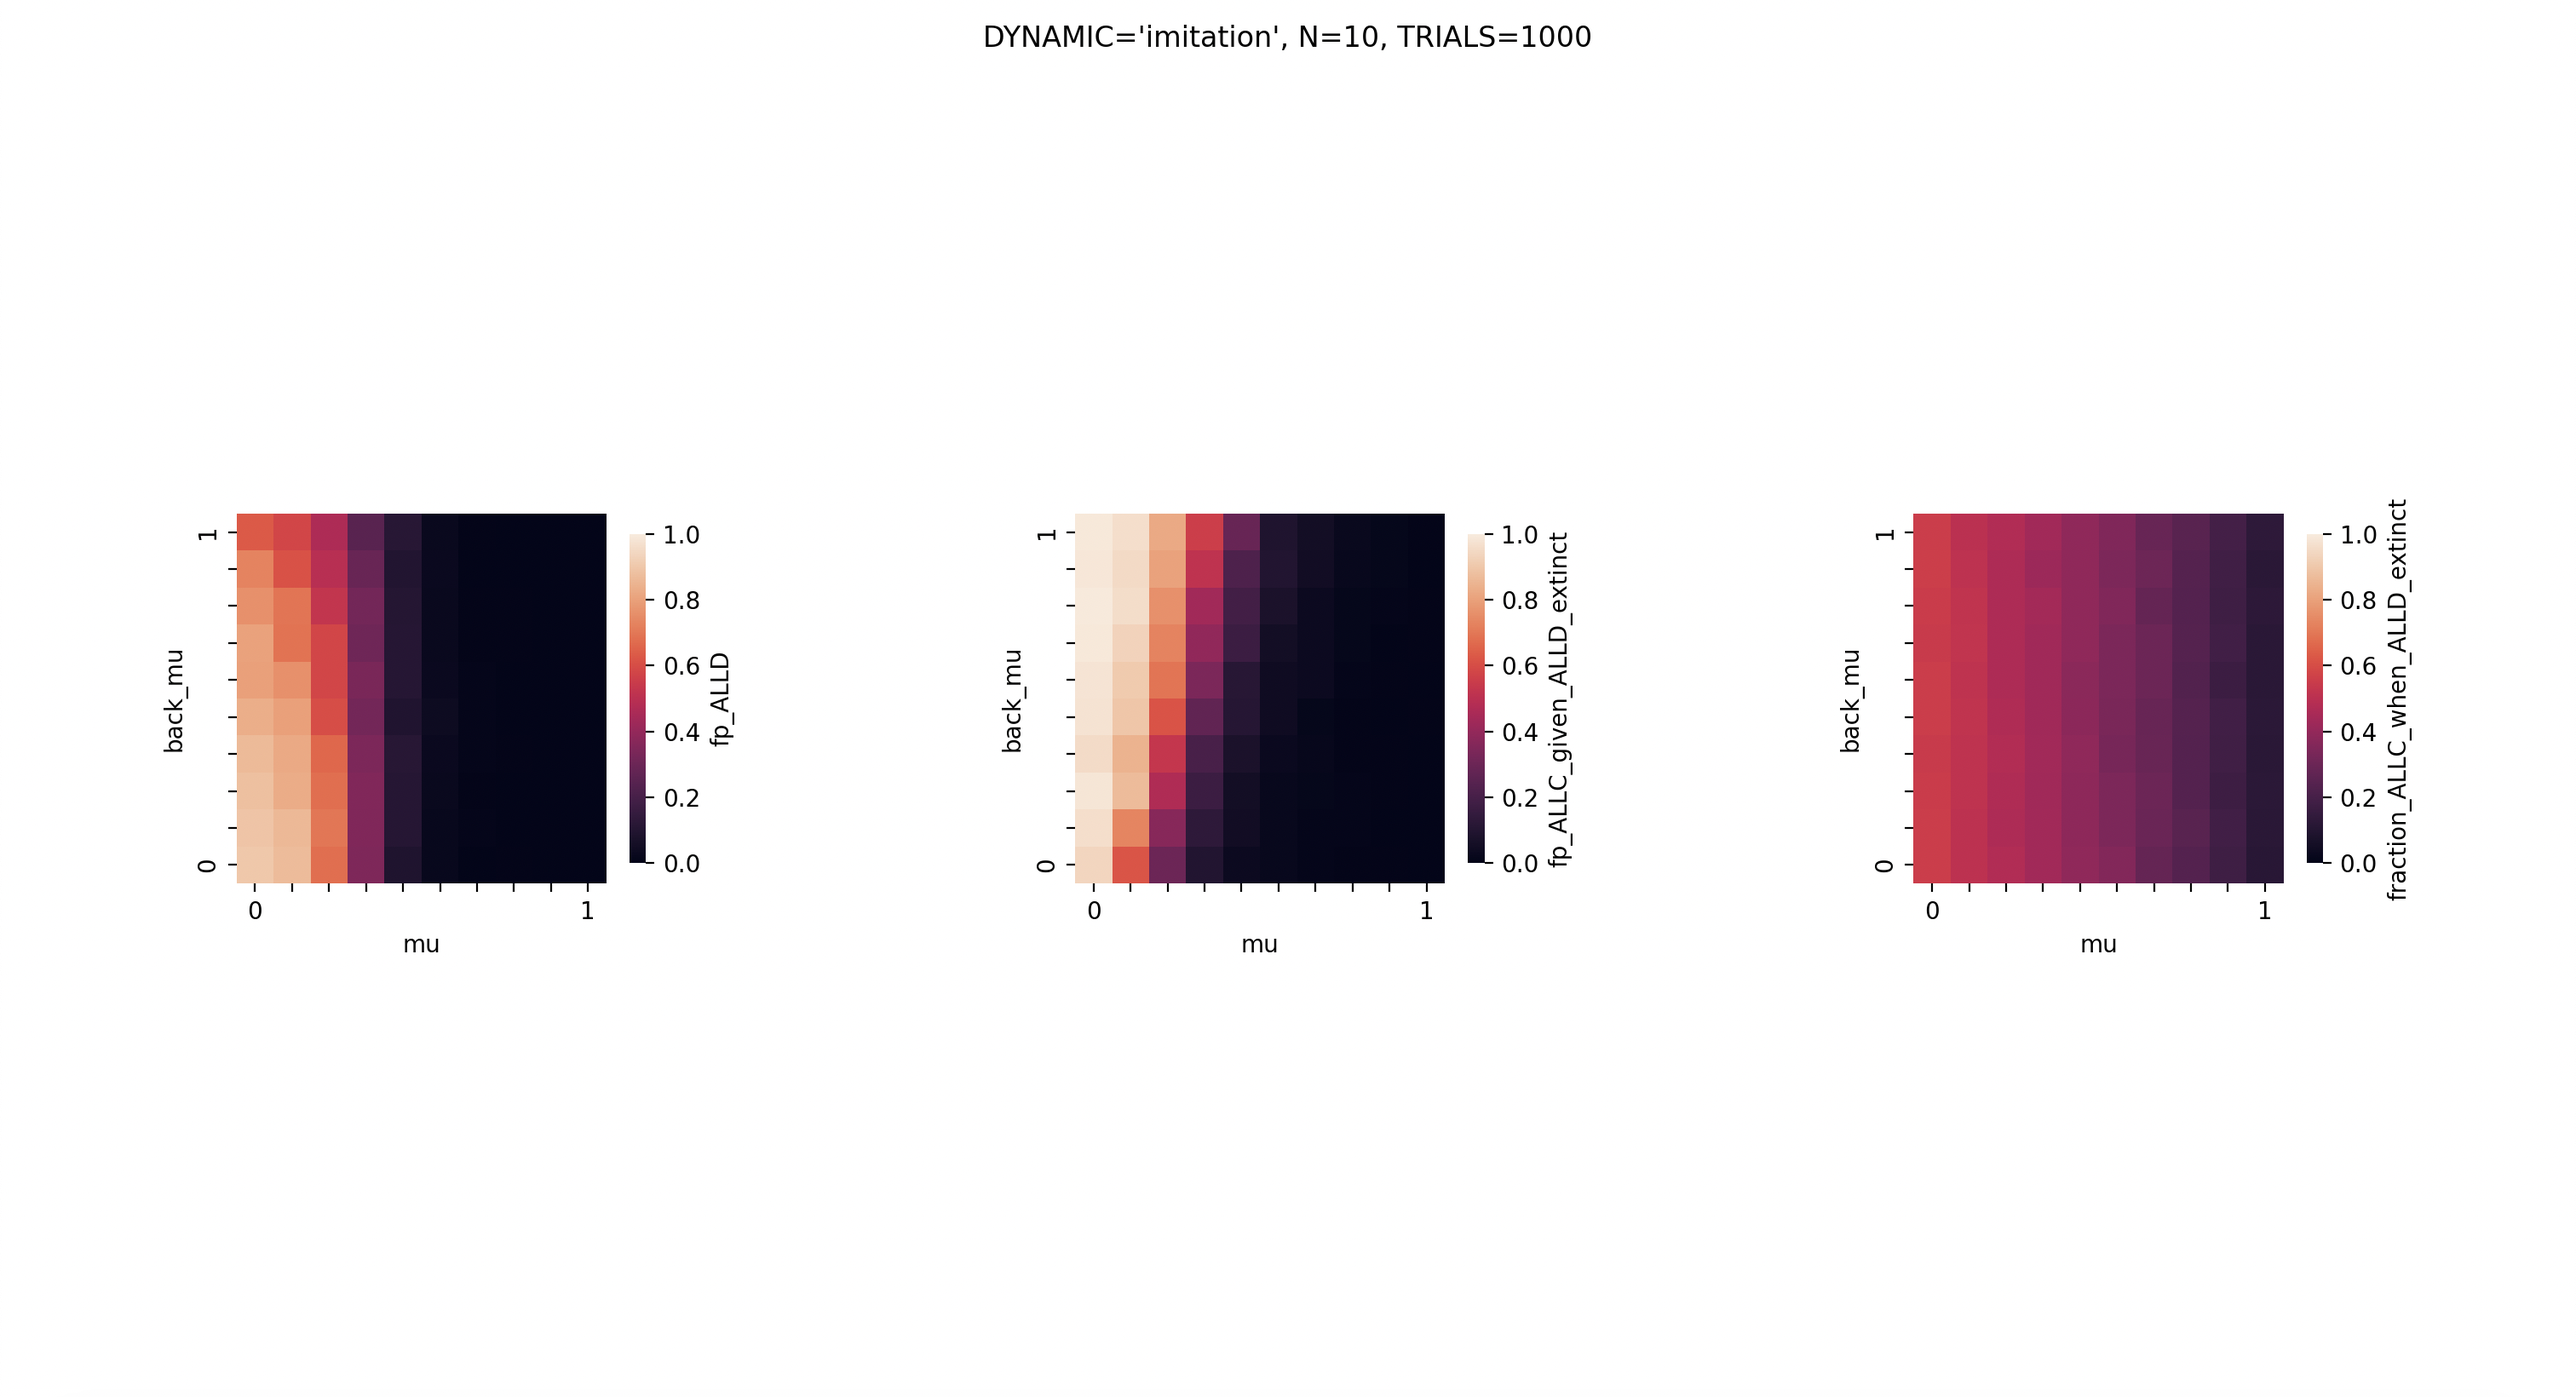
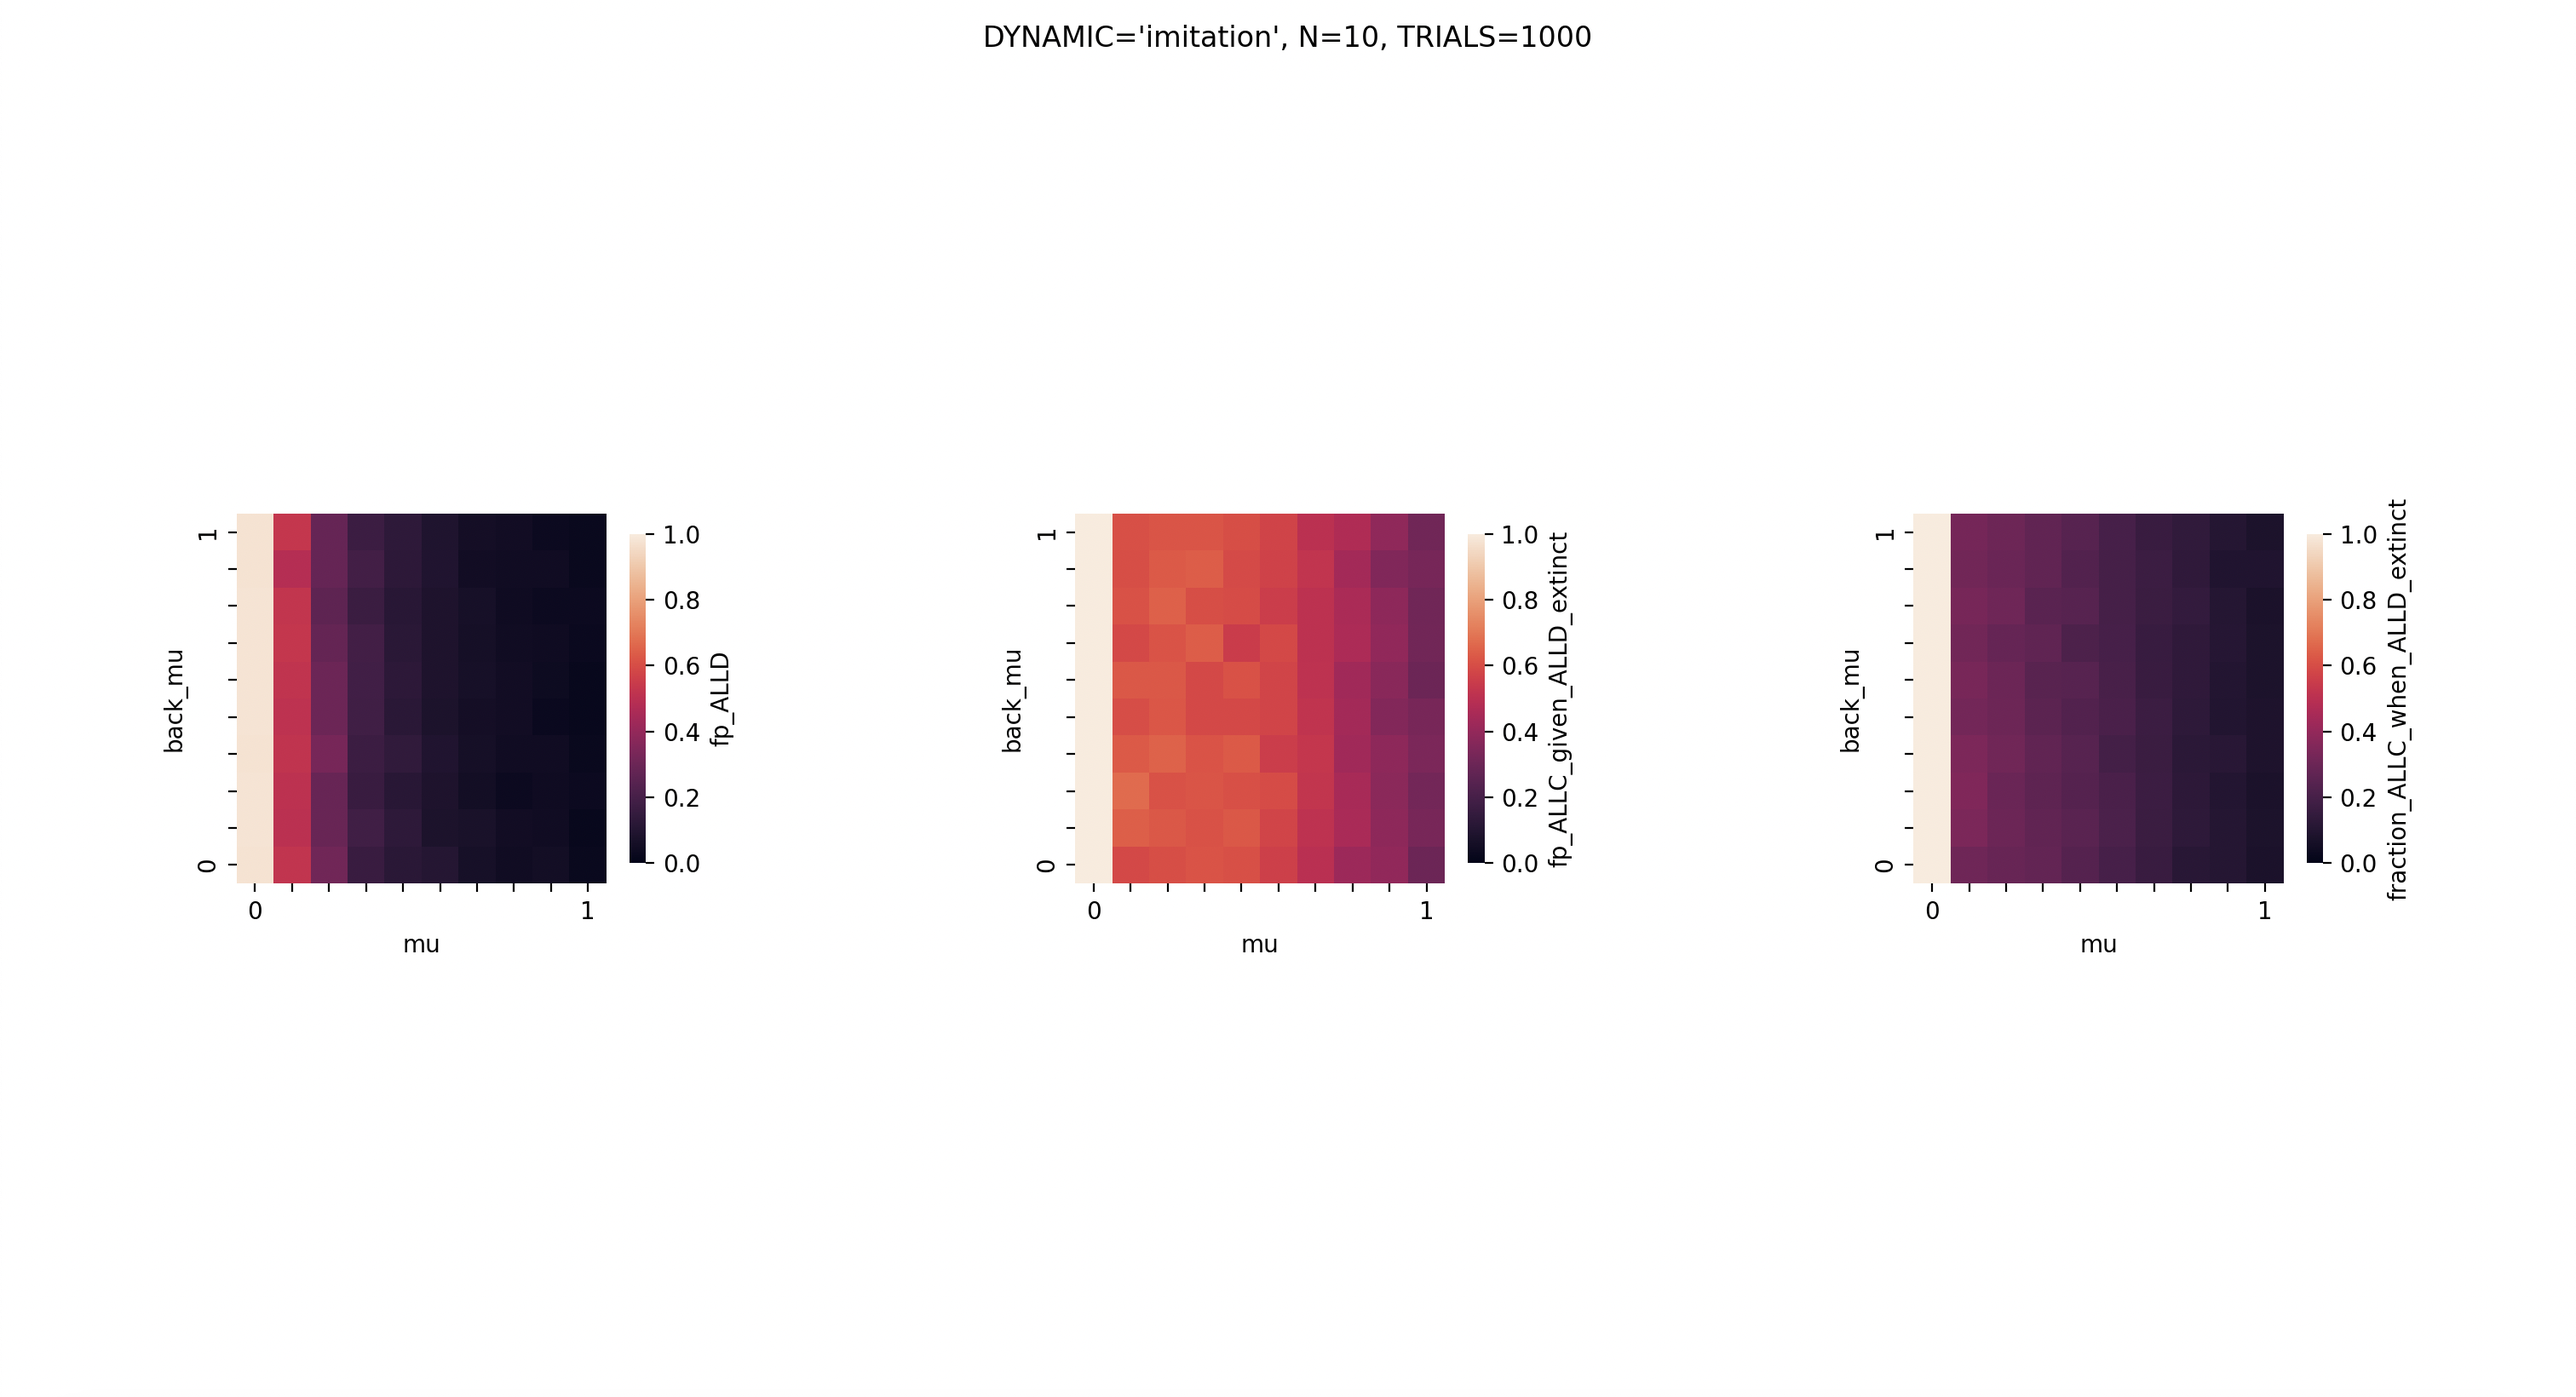
fixed payoff calculation + plots

Changed region(s): [[0.4041, 0.3421, 0.5595, 0.653], [0.7149, 0.3421, 0.8704, 0.653], [0.0933, 0.3421, 0.1865, 0.653]]

diff --git a/martins-dream.py b/martins-dream.py
@@ -42,22 +42,22 @@ def calculate_payoffs(N: int, nALLC: int, nTFT: int, M: Payoffs):
     nALLD/(N-1) * M[(Strategy.AlwaysCooperate, Strategy.AlwaysDefect)]
     + nTFT/(N-1) * M[(Strategy.AlwaysCooperate, Strategy.TitForTat)]
     + (nALLC-1)/(N-1) * M[(Strategy.AlwaysCooperate, Strategy.AlwaysCooperate)]
-  )
+  ) if nALLC > 0 else -np.inf 
   payoff_TFT = (
     nALLD/(N-1) * M[(Strategy.TitForTat, Strategy.AlwaysDefect)]
     + (nTFT-1)/(N-1) * M[(Strategy.TitForTat, Strategy.TitForTat)]
     + nALLC/(N-1) * M[(Strategy.TitForTat, Strategy.AlwaysCooperate)]
-  )
+  ) if nTFT > 0 else -np.inf
   payoff_ALLD = (
     (nALLD-1)/(N-1) * M[(Strategy.AlwaysDefect, Strategy.AlwaysDefect)]
     + nTFT/(N-1) * M[(Strategy.AlwaysDefect, Strategy.TitForTat)]
     + nALLC/(N-1) * M[(Strategy.AlwaysDefect, Strategy.AlwaysCooperate)]
-  )
+  ) if nALLD > 0 else -np.inf
 
   return (payoff_ALLC, payoff_TFT, payoff_ALLD)
 
 def pick_individual_with_payoffs(N: int, nALLC: int, nTFT: int, M: Payoffs):
-  calculate_payoffs(N, nALLC, nTFT, M)
+  # calculate_payoffs(N, nALLC, nTFT, M)
   unnormalized_fitnesses = np.array(list(map(np.exp, calculate_payoffs(N, nALLC, nTFT, M))))
   total_fitness = sum(unnormalized_fitnesses)
   return random.choices(population=STRATEGIES, weights=unnormalized_fitnesses / total_fitness)[0]
@@ -112,6 +112,7 @@ def imitation(N: int, nALLC: int, nTFT: int, M: Payoffs, mu: float, back_mu: flo
 
   strategy_picked_for_update = pick_individual_uniformly(N, nALLC, nTFT, nALLD)
   strategy_role_model = pick_individual_with_payoffs(N, nALLC, nTFT, M)
+  # print(nALLC, nTFT, nALLD, strategy_picked_for_update, strategy_role_model)
 
   # Conditional mutation.
   new_strategy = possibly_mutate(strategy_role_model, N, nTFT, nALLD, mu, back_mu)
@@ -230,42 +231,42 @@ def main():
   INTERVALS = 10
   TRIALS = 1000
   NUM_WORKERS = 8
-  DYNAMIC = 'death-birth'
+  DYNAMIC = 'pairwise-comparison'
   data = []
   TICKS = np.linspace(0, 1, INTERVALS, endpoint=True) 
   TICK_LABELS = [('0' if tick == 0 else '1' if tick == 1 else '') for tick in TICKS]
   for N in (10,):
     mus = TICKS
-    back_mus = TICKS
-    # mutations = [(mu, 0) for mu in mus]
-    mutations = list(itertools.product(mus, back_mus))
+    # back_mus = TICKS
+    mutations = [(mu, 0) for mu in mus]
+    # mutations = list(itertools.product(mus, back_mus))
     print(mutations)
     with Pool(NUM_WORKERS) as p:
       for datum in p.starmap(functools.partial(simulate, N, TRIALS, DYNAMICS[DYNAMIC]), mutations):
         data.append(datum)
 
   df = pd.DataFrame(data, columns=['N', 'mu', 'back_mu', 'fp_ALLD', 'fp_ALLC_given_ALLD_extinct', 'fraction_ALLC_when_ALLD_extinct'])
-
+  print(df)
   fig, ax = plt.subplots(1,3)
   for i, value in enumerate(('fp_ALLD', 'fp_ALLC_given_ALLD_extinct', 'fraction_ALLC_when_ALLD_extinct')):
-    sns.heatmap(
-      data=df.pivot(index='back_mu', columns='mu', values=value).sort_index(ascending=False, level=0),
-      ax=ax[i],
-      xticklabels=TICK_LABELS,
-      yticklabels=list(reversed(TICK_LABELS)),
-      vmin=0,
-      vmax=1,
-      cbar_kws={'label': value, "shrink": 0.25}
-    ) 
-    ax[i].axis('scaled')
-    # ax[i].set_ylim((0, 1))
-  # sns.lineplot(df, ax=ax[1], x='mu', y='fp_ALLC_given_ALLD_extinct', hue='N', linestyle='--', marker='o', legend=False)
+    # sns.heatmap(
+    #   data=df.pivot(index='back_mu', columns='mu', values=value).sort_index(ascending=False, level=0),
+    #   ax=ax[i],
+    #   xticklabels=TICK_LABELS,
+    #   yticklabels=list(reversed(TICK_LABELS)),
+    #   vmin=0,
+    #   vmax=1,
+    #   cbar_kws={'label': value, "shrink": 0.25}
+    # ) 
+    # ax[i].axis('scaled')
+    sns.lineplot(df, ax=ax[i], x='mu', y=value, hue='N', linestyle='--', marker='o', legend=False)
+    ax[i].set_ylim((0, 1))
   # sns.lineplot(df, ax=ax[2], x='mu', y='fraction_ALLC_when_ALLD_extinct', hue='N', linestyle='--', marker='o', legend=False)
   # for i in range(3):
 
   plt.tight_layout()
   fig.suptitle(f"{DYNAMIC=}, {N=}, {TRIALS=}")
-  fig.savefig(f'figs/M-fp_ALLD-saptarshi-{TRIALS=}-db-fraction-back-mu.png', dpi=300)
+  fig.savefig(f'figs/saptarshi-custom.png', dpi=300)
   plt.show()
 
 if __name__ == '__main__':
